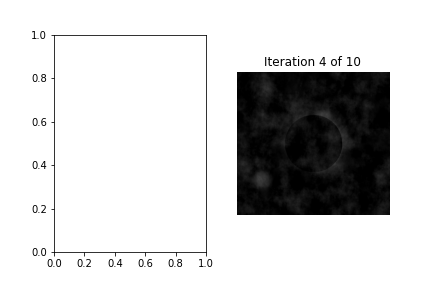
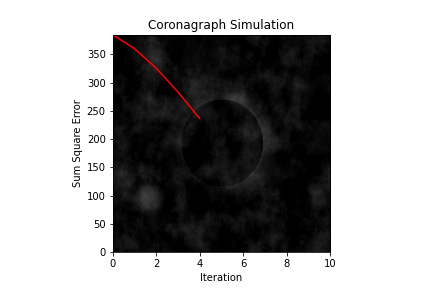
Lab 6 V2 Complete.
Meets functional requirements and complete with comment headers for all functions (omit main).

Can anyone reading this try this program on their machine? I wonder if I may have messed something up for the animations to be slower on my end.

diff --git a/Lab 6/lab6V2_nedillon.py b/Lab 6/lab6V2_nedillon.py
@@ -9,9 +9,9 @@
 # Electrical and Computer Engineering
 # All rights reserved.
 #
-# Student name: Nathan Edillon 95%
+# Student name: Nathan Edillon 92%
 # Student CCID: nedillon
-# Others: GOLDEN 2%, TOPGUN 3%
+# Others: GOLDEN 5%, TOPGUN 3%
 #
 # To avoid plagiarism, list the names of persons, Version 0 author(s)
 # excluded, whose code, words, ideas, or data you used. To avoid
@@ -35,6 +35,10 @@ def main():
     (images,errors) = gerchbergSaxton(im,10,Dphi,mask)
     saveFrames(images,errors)
 
+## Load Image
+#  @param name - name of image
+#  @return im - pixel data of image
+#  reads an image file and converts into raw pixel data
 def loadImage(name):
     im = plt.imread(name)/255
     if len(im.shape) > 2:
@@ -43,8 +47,16 @@ def loadImage(name):
     im[im > 1] = 1
     return im
 
-def opticalSystem(im,width):
-    (im, mask) = occultCircle(im,width)
+## Optical System
+#  @param im - image data
+#  @param diameter - desired diameter of circle
+#  @return im - altered image data
+#  @return Dphi - phase aberration in the pupil plane of the coronagraph
+#  @return mask - pixels masked by the circle
+#  places a circle in the original photo data and performs some Fourier
+#  transformation
+def opticalSystem(im,diameter):
+    (im, mask) = occultCircle(im,diameter)
     (IMa,IMp) = dft2(im)
     rng = np.random.default_rng(12345)
     imR = rng.random(im.shape)
@@ -54,17 +66,18 @@ def opticalSystem(im,width):
 
 ## Occult Circle
 #  @param im - image data
-#  @param width - desired diameter of circle
+#  @param diameter - desired diameter of circle
 #  @return im - altered image data
 #  @return mask - data of pixels altered with the black circle (boolean)
-#  take an image and place a circle of desired diameter in the center
-def occultCircle(im,width):
-    # im[im.shape[0]//2 - width//2 : im.shape[0]//2 + width//2,
-    #     im.shape[1]//2 - width//2 : im.shape[1]//2 + width//2] = 0
+#  take an image and place a black circle of desired diameter in the center
+def occultCircle(im,diameter):
     mask = np.full(im.shape, False, dtype = bool)
-    for x in range(im.shape[0]//2 - width//2, im.shape[0]//2 + width//2):    
-        for y in range(im.shape[1]//2 - width//2, im.shape[1]//2 + width//2):
-            if np.sqrt((x - im.shape[0]//2)**2 + (y - im.shape[1]//2)**2) <= width//2:
+    radius = diameter // 2
+    xCenter = im.shape[0] // 2
+    yCenter = im.shape[1] // 2
+    for x in range(xCenter - radius, xCenter + radius):    
+        for y in range(yCenter - radius, yCenter + radius):
+            if np.sqrt((x - xCenter)**2 + (y - yCenter)**2) <= radius:
                 im[x, y] = 0
                 mask[x, y] = True
     return (im, mask)
@@ -88,13 +101,24 @@ def idft2(IMa,IMp):
     im[im > 1] = 1
     return im
 
+## Occult Error
+#  @param im - image data
+#  @param mask - masked pixel data
+#  @return error - sum of squared data of masked pixels
+#  the error is the sum of all squared values of masked pixels
+def occultError(im,mask):
+    error = np.sum(im[mask]**2)
+    return error
+
 ## Gerchberg Saxton Algorithm
 #  @param im - image data
 #  @param maxIters - the amount of iterations to create
 #  @param Dphi - phase aberration in the pupil plane of the coronagraph
-#  @return - images - image data post-algorithm
-#  does some math to simulate the GS algorithm, creating a set of images
-#  of a desired amount of iterations
+#  @param mask - masked pixel data
+#  @return images - image data post-algorithm
+#  @return errors - data of mask error
+#  does some math to simulate the GS algorithm, creating a set of images of
+#  a desired amount of iterations, printing its progression in the console
 def gerchbergSaxton(im,maxIters,Dphi,mask):
     (IMa,IMp) = dft2(im)
     images = []
@@ -103,30 +127,36 @@ def gerchbergSaxton(im,maxIters,Dphi,mask):
         print("Iteration %d of %d" % (k,maxIters))
         im = idft2(IMa,IMp+(k/maxIters*Dphi))
         images.append(im)
-        error = 0
-        error += im[mask]**2
-        errors.append(error)
-                    
+        errors.append(occultError(im,mask))       
     return (images,errors)
 
 ## Save Frames
 #  @param images - data of a set of images
-#  takes data that forms images to form black and white photos, shows each
-#  iteration of the photos in succession, and saves them as "coronograph"
-#  .png files
+#  @param errors - masked error data
+#  takes data that forms black and white images to simulate a coronagraph, 
+#  graphs error data per iteration on top of the simulation and saves them 
+#  as "coronograph" .png files
 def saveFrames(images,errors):
     shape = (images[0].shape[0],images[0].shape[1],3)
     image = np.zeros(shape,images[0].dtype)
     maxIters = len(images)-1
+    iterations = []
+    sumError = []
+    maxError = max(errors)
     for k in range(maxIters+1):
         image[:,:,0] = images[k]
         image[:,:,1] = images[k]
         image[:,:,2] = images[k]
-        plt.subplot(1, 2, 1)
-        plt.subplot(1, 2, 2)
-        plt.imshow(image)
-        plt.axis('off')
-        plt.title("Iteration %i of %i" % (k, maxIters))
+        iterations.append(k)
+        sumError.append(errors[k])
+        plt.xlabel("Iteration")
+        plt.ylabel("Sum Square Error")
+        plt.xlim(0, maxIters)
+        plt.ylim(0, maxError)
+        plt.plot(iterations, sumError, "r-")
+        plt.imshow(image, extent = (0, maxIters, 0, maxError))
+        plt.gca().set_aspect(maxIters/maxError)
+        plt.title("Coronagraph Simulation")
         plt.savefig('coronagraph'+str(k)+'.png')
         plt.show()
 
